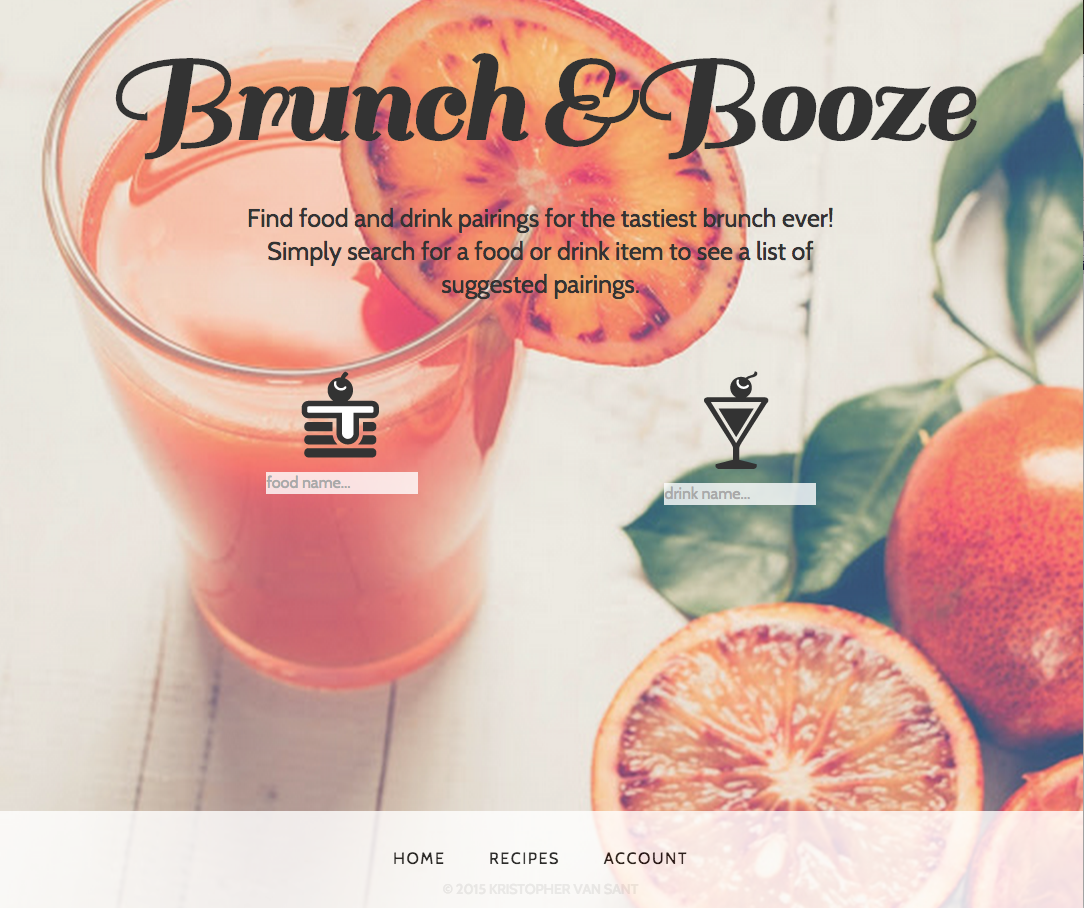
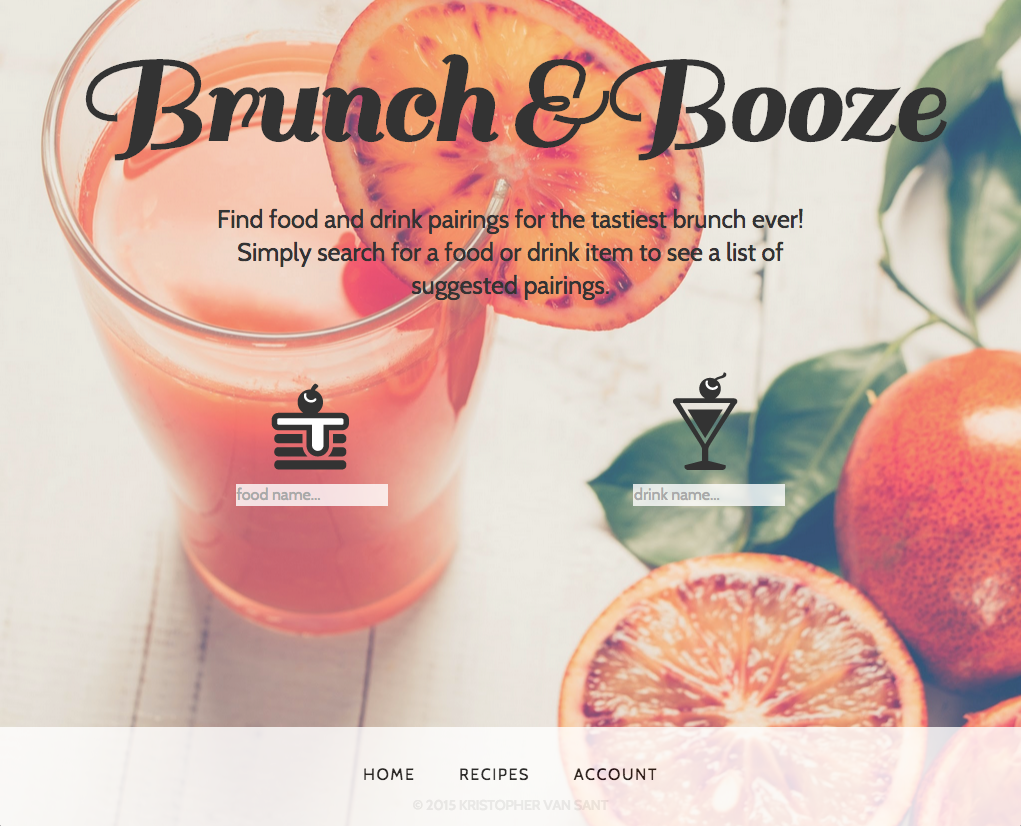
added new font

diff --git a/index.html b/index.html
@@ -6,8 +6,9 @@
     <link rel="stylesheet" href="css/normalize.css">
     <link rel="stylesheet" href="css/main.css">
     <link rel="stylesheet" href="css/responsive.css">
+    <link href='http://fonts.googleapis.com/css?family=Source+Sans+Pro|Roboto+Condensed' rel='stylesheet' type='text/css'>
     <meta name="viewport" content="width=device-width, initial-scale=1.0">
-    </head>
+  </head>
   <body>
     <header>
       <a href="index.html" id="logo">
@@ -23,42 +24,34 @@
       </nav>
     </header>
     <div id="wrapper">
-    <section  id="intro">
-      <div></div>
-    </section>
     <section id="projects">
+      <h3>Projects</h3>
       <div>
         <ul id="gallery">
           <li>
             <a href="https://vast-spire-8394.herokuapp.com/">
               <img src="images/tasklist.png" alt="Task List">
-              <p>Self-Destructing Task List.</p>
-            </a>  
+            </a>
+            <p id="summary">Self-Destructing Task List. </p>
           </li>
           <li>
             <a href="https://still-crag-7098.herokuapp.com/">
               <img src="images/chatapp.png" alt="Chat Application">
-              <p>Real-Time Chat Application.</p>
-            </a>  
-          </li>
-          <li>
-            <a href="http://frozen-bayou-7639.herokuapp.com/">
-              <img src="images/blocjams.png" alt="">
-              <p>Single-page music-streaming app.</p>
-            </a>  
+            </a>   
+            <p>Real-Time Chat Application.</p> 
           </li>
           <li>
             <a href="http://morning-refuge-5353.herokuapp.com/">
               <img src="images/brunchandbooze.png" alt="Brunch and Booze app">
-              <p>Food and drink pairing application.</p>
-            </a>  
+            </a> 
+            <p>Food and drink pairing application.</p>
           </li>
         </ul>
       </div>
     </section>
     <section id="about">
       <div>
-
+        <p></p>
       </div>
     </section>
     <section id="contact">

diff --git a/css/main.css b/css/main.css
@@ -3,7 +3,7 @@ GENERAL
 ***********************************/
 
 body {
-  font-family: 'Open Sans', sans-serif;
+  font-family: 'Source Sans Pro', sans-serif;
   background-image: url('../images/stardust.png');
 }
 
@@ -32,16 +32,18 @@ HEADING
 header {
   float: left;
   margin: 0 0 30px 0;
-  padding: 5px 0 0 0;
+  padding: 50px 0 70px 0;
   width: 100%;
   background-image: url('../images/cubes.png');
+  font-family: 'Roboto Condensed', sans-serif;
+ 
 }
 
 
 #logo {
   text-align: center;
   margin: 0;
-  color: black;
+  color: #303030;
 }
 
 h1 {
@@ -85,8 +87,15 @@ nav ul {
 nav a {
   font-weight: 800;
   padding: 15px 10px;
-  color: black;
+  color: #303030;
 }
+
+nav a:hover {
+  opacity: 0.8;
+  letter-spacing: 0.06em;  
+}
+
+
 
 /**********************************
 FOOTER
@@ -96,7 +105,7 @@ footer {
   font-size: 0.875em;
   text-align: center;
   clear: both;
-  padding-top: 50px;
+  padding-top: 70px;
   color: #ccc;
 }
 
@@ -122,6 +131,17 @@ footer {
 PAGE:PORTFOLIO
 ***********************************/
 
+#projects {
+  
+
+}
+
+h3 {
+  color: white;
+  font-family: 'Roboto Condensed', sans-serif;
+  font-size: 2em;
+}
+
 #gallery {
   margin: 0;
   padding: 0;
@@ -132,17 +152,19 @@ PAGE:PORTFOLIO
   float: left;
   width: 45%;
   margin: 2.5%;
-  background-color: #f5f5f5;
+  background-color: rgba(255,255,255, 0.5);
   color: #bdc3c7;
+  
 }
 
 
-#gallery li a p {
+#gallery li p {
   margin: 0;
   padding: 5%;
-  font-size: 0.75em;
-  color: #bdc3c7;
+  font-size: 0.85em;
+  color: white;
 }
+
 
 /**********************************
 PAGE:ABOUT

diff --git a/app.js b/app.js
@@ -1,0 +1,31 @@
+portfolio = angular.module('Portfolio', ['ui.router']);
+
+brunch.config(['$stateProvider', '$locationProvider', function($stateProvider, $locationProvider) {
+  $locationProvider.html5Mode(true);
+
+  $stateProvider.state('home', {
+    url: '/',
+    controller: 'HomeCtrl',
+    templateUrl: '/templates/home.html'
+  });
+
+  $stateProvider.state('projects', {
+    url: '/projects',
+    controller: 'ProjectsCtrl',
+    templateUrl: '/templates/projects.html'
+  });
+ 
+}]);
+
+
+portfolio.controller('HomeCtrl', ['$scope',  function($scope) {
+  
+
+}]);
+
+
+portfolio.controller('PortfolioCtrl', ['$scope',  function($scope) {
+  
+
+}]);
+

diff --git a/css/responsive.css b/css/responsive.css
@@ -45,7 +45,7 @@
 nav {
     background: none;
     float: right;
-    font-size: 1.125em;
+    font-size: 1.85em;
     margin-right: 5%;
     text-align: right;
     width: 45%;  
@@ -59,16 +59,15 @@ nav {
   }
 
 h1 {
-  font-size: 2.5em;
+  font-size: 4em;
   }
   
 h2 {
-  font-size: 0.825em;
+  font-size: 2.5em;
   margin-bottom: 20px;  
   }  
 
 header {
-
   margin-bottom: 60px;  
   }  
   

diff --git a/js/app.js b/js/app.js
@@ -1,0 +1,2 @@
+ $("#summary").click(function(){
+        $("#details").slideToggle("slow");
